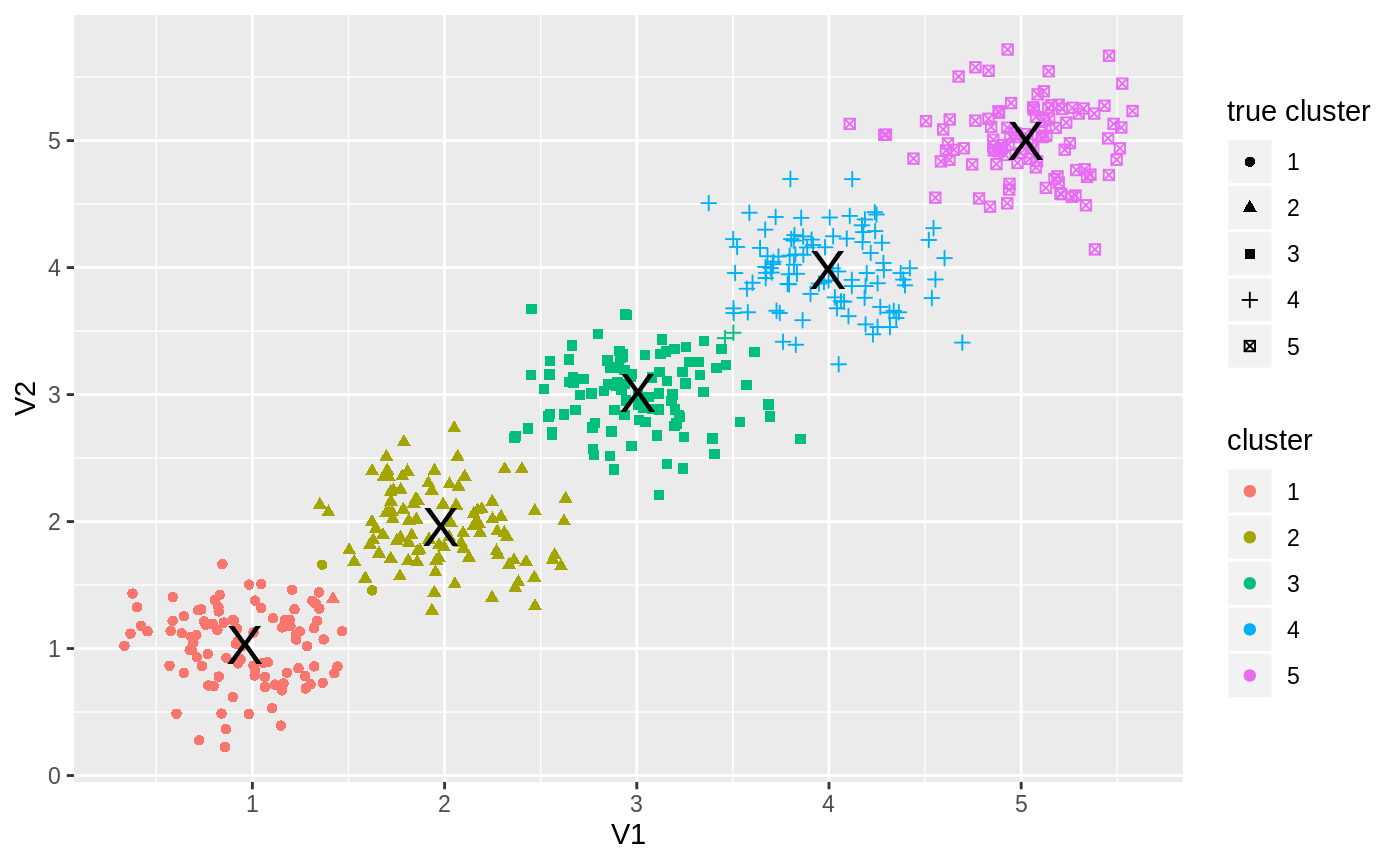
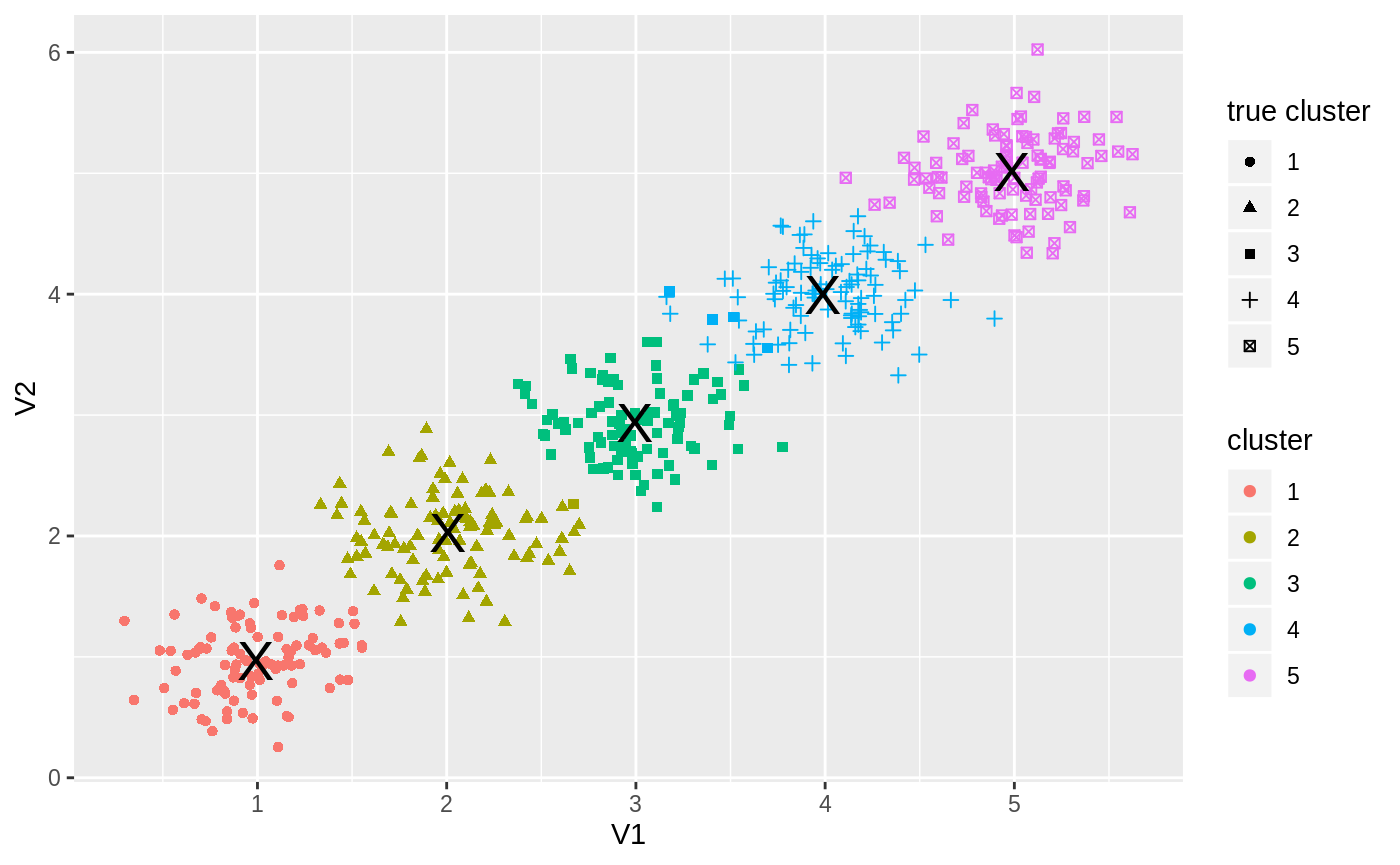
Built site for tglkmeans: 0.3.1.9000@89ff1e5

diff --git a/articles/usage.html b/articles/usage.html
@@ -108,16 +108,16 @@
 <pre><code>## # A tibble: 500 x 4
 ##       id    V1    V2 true_clust
 ##    &lt;int&gt; &lt;dbl&gt; &lt;dbl&gt;      &lt;int&gt;
-##  1     1 1.18  0.810          1
-##  2     2 1.37  1.07           1
-##  3     3 0.605 0.486          1
-##  4     4 0.710 0.931          1
-##  5     5 0.914 1.04           1
-##  6     6 0.693 1.05           1
-##  7     7 1.15  1.17           1
-##  8     8 1.11  1.24           1
-##  9     9 0.823 1.33           1
-## 10    10 0.585 1.22           1
+##  1     1 0.553 0.562          1
+##  2     2 0.876 0.638          1
+##  3     3 0.631 1.02           1
+##  4     4 1.46  1.12           1
+##  5     5 0.828 0.932          1
+##  6     6 1.15  1.06           1
+##  7     7 1.10  0.637          1
+##  8     8 0.878 0.843          1
+##  9     9 0.868 1.32           1
+## 10    10 0.839 0.488          1
 ## # … with 490 more rows</code></pre>
 <p>This is how our data looks like:</p>
 <div class="sourceCode" id="cb3"><pre class="sourceCode r"><code class="sourceCode r"><a class="sourceLine" id="cb3-1" data-line-number="1">data <span class="op">%&gt;%</span><span class="st"> </span><span class="kw">ggplot</span>(<span class="kw">aes</span>(<span class="dt">x=</span>V1, <span class="dt">y=</span>V2, <span class="dt">color=</span><span class="kw"><a href="https://rdrr.io/r/base/factor.html">factor</a></span>(true_clust))) <span class="op">+</span><span class="st"> </span></a>
@@ -134,32 +134,34 @@
 <pre><code>## KMEans: will generate seeds
 ## KMeans into generate seeds
 ## at seed 0
-## add new core from 164 to 0
+## add new core from 368 to 0
 ## at seed 1
 ## done update min distance
 ## seed range 350 450
-## picked up 478 dist was 2.14889
-## add new core from 478 to 1
+## picked up 40 dist was 2.05258
+## add new core from 40 to 1
 ## at seed 2
 ## done update min distance
 ## seed range 300 400
-## picked up 207 dist was 0.793605
-## add new core from 207 to 2
+## picked up 206 dist was 0.844671
+## add new core from 206 to 2
 ## at seed 3
 ## done update min distance
 ## seed range 250 350
-## picked up 53 dist was 0.810804
-## add new core from 53 to 3
+## picked up 194 dist was 0.681557
+## add new core from 194 to 3
 ## at seed 4
 ## done update min distance
 ## seed range 200 300
-## picked up 359 dist was 0.546213
-## add new core from 359 to 4
+## picked up 434 dist was 0.537861
+## add new core from 434 to 4
 ## KMEans: reassign after init
 ## KMEans: iter 0
-## KMEans: iter 1 changed 2
+## KMEans: iter 1 changed 5
 ## KMEans: iter 1
-## KMEans: iter 2 changed 0</code></pre>
+## KMEans: iter 2 changed 3
+## KMEans: iter 2
+## KMEans: iter 3 changed 0</code></pre>
 <p>The returned list contains 3 fields:</p>
 <div class="sourceCode" id="cb7"><pre class="sourceCode r"><code class="sourceCode r"><a class="sourceLine" id="cb7-1" data-line-number="1"><span class="kw"><a href="https://rdrr.io/r/base/names.html">names</a></span>(km)</a></code></pre></div>
 <pre><code>## [1] "centers" "cluster" "size"</code></pre>
@@ -168,38 +170,38 @@
 <pre><code>## # A tibble: 5 x 3
 ##   clust    V1    V2
 ##   &lt;int&gt; &lt;dbl&gt; &lt;dbl&gt;
-## 1     1 3.99   3.98
-## 2     2 1.98   1.96
-## 3     3 5.02   5.00
-## 4     4 3.00   3.01
-## 5     5 0.957  1.03</code></pre>
+## 1     1 4.99  5.01 
+## 2     2 3.99  4.00 
+## 3     3 2.01  2.02 
+## 4     4 0.987 0.969
+## 5     5 2.99  2.94</code></pre>
 <p>clusters are numbered according to <code>order_func</code> (see ‘Custom cluster ordering’ section).</p>
 <p><code>km$cluster</code> contains tibble with <code>id</code> column with the observation id (<code>1:n</code> if no id column was supplied), and <code>clust</code> column with the observation assigned cluster:</p>
 <div class="sourceCode" id="cb11"><pre class="sourceCode r"><code class="sourceCode r"><a class="sourceLine" id="cb11-1" data-line-number="1">km<span class="op">$</span>cluster</a></code></pre></div>
 <pre><code>## # A tibble: 500 x 2
 ##    id    clust
 ##    &lt;chr&gt; &lt;int&gt;
-##  1 1         5
-##  2 2         5
-##  3 3         5
-##  4 4         5
-##  5 5         5
-##  6 6         5
-##  7 7         5
-##  8 8         5
-##  9 9         5
-## 10 10        5
+##  1 1         4
+##  2 2         4
+##  3 3         4
+##  4 4         4
+##  5 5         4
+##  6 6         4
+##  7 7         4
+##  8 8         4
+##  9 9         4
+## 10 10        4
 ## # … with 490 more rows</code></pre>
 <p><code>km$size</code> contains tibble with <code>clust</code> column and <code>n</code> column with the number of points in each cluster:</p>
 <div class="sourceCode" id="cb13"><pre class="sourceCode r"><code class="sourceCode r"><a class="sourceLine" id="cb13-1" data-line-number="1">km<span class="op">$</span>size</a></code></pre></div>
 <pre><code>## # A tibble: 5 x 2
 ##   clust     n
 ##   &lt;int&gt; &lt;int&gt;
-## 1     1    98
-## 2     2   101
-## 3     3   100
-## 4     4   102
-## 5     5    99</code></pre>
+## 1     1   100
+## 2     2   104
+## 3     3   101
+## 4     4   100
+## 5     5    95</code></pre>
 <p>We can now check our clustering performance - fraction of observations that were classified correctly (Note that <code>match_clusters</code> function is internal to the package and is used only in this vignette):</p>
 <div class="sourceCode" id="cb15"><pre class="sourceCode r"><code class="sourceCode r"><a class="sourceLine" id="cb15-1" data-line-number="1">d &lt;-<span class="st"> </span>tglkmeans<span class="op">:::</span><span class="kw">match_clusters</span>(data, km, <span class="dv">5</span>)</a>
 <a class="sourceLine" id="cb15-2" data-line-number="2"><span class="kw"><a href="https://rdrr.io/r/base/sum.html">sum</a></span>(d<span class="op">$</span>true_clust <span class="op">==</span><span class="st"> </span>d<span class="op">$</span>new_clust, <span class="dt">na.rm=</span><span class="ot">TRUE</span>) <span class="op">/</span><span class="st"> </span><span class="kw"><a href="https://rdrr.io/r/base/sum.html">sum</a></span>(<span class="op">!</span><span class="kw"><a href="https://rdrr.io/r/base/NA.html">is.na</a></span>(d<span class="op">$</span>new_clust))</a></code></pre></div>
@@ -226,11 +228,11 @@
 <pre><code>## # A tibble: 5 x 3
 ##   clust    V1    V2
 ##   &lt;int&gt; &lt;dbl&gt; &lt;dbl&gt;
-## 1     1 0.957  1.03
-## 2     2 1.98   1.96
-## 3     3 3.00   3.01
-## 4     4 3.99   3.98
-## 5     5 5.02   5.00</code></pre>
+## 1     1 0.987 0.969
+## 2     2 2.01  2.02 
+## 3     3 3.00  2.95 
+## 4     4 4.00  4.01 
+## 5     5 4.99  5.02</code></pre>
 </div>
 <div id="missing-data" class="section level2">
 <h2 class="hasAnchor">
@@ -239,18 +241,18 @@
 <div class="sourceCode" id="cb20"><pre class="sourceCode r"><code class="sourceCode r"><a class="sourceLine" id="cb20-1" data-line-number="1">data<span class="op">$</span>V1[<span class="kw"><a href="https://rdrr.io/r/base/sample.html">sample</a></span>(<span class="dv">1</span><span class="op">:</span><span class="kw"><a href="https://rdrr.io/r/base/nrow.html">nrow</a></span>(data), <span class="kw"><a href="https://rdrr.io/r/base/Round.html">round</a></span>(<span class="kw"><a href="https://rdrr.io/r/base/nrow.html">nrow</a></span>(data)<span class="op">*</span><span class="fl">0.2</span>))] &lt;-<span class="st"> </span><span class="ot">NA</span></a>
 <a class="sourceLine" id="cb20-2" data-line-number="2">data</a></code></pre></div>
 <pre><code>## # A tibble: 500 x 4
-##       id     V1    V2 true_clust
-##    &lt;int&gt;  &lt;dbl&gt; &lt;dbl&gt;      &lt;int&gt;
-##  1     1  1.18  0.810          1
-##  2     2 NA     1.07           1
-##  3     3  0.605 0.486          1
-##  4     4  0.710 0.931          1
-##  5     5 NA     1.04           1
-##  6     6  0.693 1.05           1
-##  7     7  1.15  1.17           1
-##  8     8  1.11  1.24           1
-##  9     9  0.823 1.33           1
-## 10    10 NA     1.22           1
+##       id    V1    V2 true_clust
+##    &lt;int&gt; &lt;dbl&gt; &lt;dbl&gt;      &lt;int&gt;
+##  1     1 0.553 0.562          1
+##  2     2 0.876 0.638          1
+##  3     3 0.631 1.02           1
+##  4     4 1.46  1.12           1
+##  5     5 0.828 0.932          1
+##  6     6 1.15  1.06           1
+##  7     7 1.10  0.637          1
+##  8     8 0.878 0.843          1
+##  9     9 0.868 1.32           1
+## 10    10 0.839 0.488          1
 ## # … with 490 more rows</code></pre>
 <div class="sourceCode" id="cb22"><pre class="sourceCode r"><code class="sourceCode r"><a class="sourceLine" id="cb22-1" data-line-number="1">km &lt;-<span class="st"> </span><span class="kw"><a href="../reference/TGL_kmeans_tidy.html">TGL_kmeans_tidy</a></span>(data <span class="op">%&gt;%</span><span class="st"> </span><span class="kw">select</span>(id, <span class="kw">starts_with</span>(<span class="st">'V'</span>)), </a>
 <a class="sourceLine" id="cb22-2" data-line-number="2">              <span class="dt">k=</span><span class="dv">5</span>, </a>
@@ -258,7 +260,7 @@
 <a class="sourceLine" id="cb22-4" data-line-number="4">              <span class="dt">verbose=</span><span class="ot">FALSE</span>)</a>
 <a class="sourceLine" id="cb22-5" data-line-number="5">d &lt;-<span class="st"> </span>tglkmeans<span class="op">:::</span><span class="kw">match_clusters</span>(data, km, <span class="dv">5</span>)</a>
 <a class="sourceLine" id="cb22-6" data-line-number="6"><span class="kw"><a href="https://rdrr.io/r/base/sum.html">sum</a></span>(d<span class="op">$</span>true_clust <span class="op">==</span><span class="st"> </span>d<span class="op">$</span>new_clust, <span class="dt">na.rm=</span><span class="ot">TRUE</span>) <span class="op">/</span><span class="st"> </span><span class="kw"><a href="https://rdrr.io/r/base/sum.html">sum</a></span>(<span class="op">!</span><span class="kw"><a href="https://rdrr.io/r/base/NA.html">is.na</a></span>(d<span class="op">$</span>new_clust))</a></code></pre></div>
-<pre><code>## [1] 0.982</code></pre>
+<pre><code>## [1] 0.974</code></pre>
 <p>and plotting the results (without the NA’s) we get:</p>
 <div class="sourceCode" id="cb24"><pre class="sourceCode r"><code class="sourceCode r"><a class="sourceLine" id="cb24-1" data-line-number="1">d <span class="op">%&gt;%</span><span class="st"> </span><span class="kw">ggplot</span>(<span class="kw">aes</span>(<span class="dt">x=</span>V1, <span class="dt">y=</span>V2, <span class="dt">color=</span><span class="kw"><a href="https://rdrr.io/r/base/factor.html">factor</a></span>(new_clust), <span class="dt">shape=</span><span class="kw"><a href="https://rdrr.io/r/base/factor.html">factor</a></span>(true_clust))) <span class="op">+</span><span class="st"> </span></a>
 <a class="sourceLine" id="cb24-2" data-line-number="2"><span class="st">    </span><span class="kw">geom_point</span>() <span class="op">+</span><span class="st"> </span></a>
@@ -290,7 +292,7 @@
 <a class="sourceLine" id="cb29-3" data-line-number="3"></a>
 <a class="sourceLine" id="cb29-4" data-line-number="4">d &lt;-<span class="st"> </span>tglkmeans<span class="op">:::</span><span class="kw">match_clusters</span>(data, km_standard, <span class="dv">30</span>)</a>
 <a class="sourceLine" id="cb29-5" data-line-number="5"><span class="kw"><a href="https://rdrr.io/r/base/sum.html">sum</a></span>(d<span class="op">$</span>true_clust <span class="op">==</span><span class="st"> </span>d<span class="op">$</span>new_clust, <span class="dt">na.rm=</span><span class="ot">TRUE</span>) <span class="op">/</span><span class="st"> </span><span class="kw"><a href="https://rdrr.io/r/base/sum.html">sum</a></span>(<span class="op">!</span><span class="kw"><a href="https://rdrr.io/r/base/NA.html">is.na</a></span>(d<span class="op">$</span>new_clust))</a></code></pre></div>
-<pre><code>## [1] 0.75</code></pre>
+<pre><code>## [1] 0.6521739</code></pre>
 <p>We can see that kmeans++ clusters siginifcantly better than R vannila kmeans.</p>
 </div>
 <div id="random-seed" class="section level2">

diff --git a/reference/TGL_kmeans_tidy.html b/reference/TGL_kmeans_tidy.html
@@ -234,68 +234,70 @@ if NULL, no reordering would be done.</p></td>
 <span class='no'>km</span> <span class='kw'>&lt;-</span> <span class='fu'>TGL_kmeans_tidy</span>(<span class='no'>d</span>, <span class='kw'>k</span> <span class='kw'>=</span> <span class='fl'>5</span>, <span class='st'>"euclid"</span>, <span class='kw'>verbose</span> <span class='kw'>=</span> <span class='fl'>TRUE</span>)</div><div class='output co'>#&gt; <span class='message'>id column: id</span></div><div class='output co'>#&gt; KMEans: will generate seeds
 #&gt; KMeans into generate seeds
 #&gt; at seed 0
-#&gt; add new core from 19 to 0
+#&gt; add new core from 229 to 0
 #&gt; at seed 1
 #&gt; done update min distance
 #&gt; seed range 350 450
-#&gt; picked up 445 dist was 2.88074
-#&gt; add new core from 445 to 1
+#&gt; picked up 453 dist was 1.50538
+#&gt; add new core from 453 to 1
 #&gt; at seed 2
 #&gt; done update min distance
 #&gt; seed range 300 400
-#&gt; picked up 268 dist was 1.42452
-#&gt; add new core from 268 to 2
+#&gt; picked up 42 dist was 1.36515
+#&gt; add new core from 42 to 2
 #&gt; at seed 3
 #&gt; done update min distance
 #&gt; seed range 250 350
-#&gt; picked up 119 dist was 0.656824
-#&gt; add new core from 119 to 3
+#&gt; picked up 331 dist was 0.687862
+#&gt; add new core from 331 to 3
 #&gt; at seed 4
 #&gt; done update min distance
 #&gt; seed range 200 300
-#&gt; picked up 311 dist was 0.696882
-#&gt; add new core from 311 to 4
+#&gt; picked up 168 dist was 0.72591
+#&gt; add new core from 168 to 4
 #&gt; KMEans: reassign after init
 #&gt; KMEans: iter 0
-#&gt; KMEans: iter 1 changed 1
+#&gt; KMEans: iter 1 changed 4
 #&gt; KMEans: iter 1
-#&gt; KMEans: iter 2 changed 1
+#&gt; KMEans: iter 2 changed 2
 #&gt; KMEans: iter 2
-#&gt; KMEans: iter 3 changed 0</div><div class='input'><span class='no'>km</span></div><div class='output co'>#&gt; $centers
+#&gt; KMEans: iter 3 changed 1
+#&gt; KMEans: iter 3
+#&gt; KMEans: iter 4 changed 0</div><div class='input'><span class='no'>km</span></div><div class='output co'>#&gt; $centers
 #&gt; # A tibble: 5 x 3
 #&gt;   clust    V1    V2
 #&gt;   &lt;int&gt; &lt;dbl&gt; &lt;dbl&gt;
-#&gt; 1     1 3.03  3.01 
-#&gt; 2     2 0.945 0.926
-#&gt; 3     3 4.99  4.98 
-#&gt; 4     4 1.96  2.02 
-#&gt; 5     5 4.03  4.04 
+#&gt; 1     1 0.945 0.926
+#&gt; 2     2 3.03  3.01 
+#&gt; 3     3 5.00  4.99 
+#&gt; 4     4 4.04  4.04 
+#&gt; 5     5 1.96  2.02 
 #&gt; 
 #&gt; $cluster
 #&gt; # A tibble: 500 x 2
 #&gt;    id    clust
 #&gt;    &lt;chr&gt; &lt;int&gt;
-#&gt;  1 1         2
-#&gt;  2 2         2
-#&gt;  3 3         2
-#&gt;  4 4         2
-#&gt;  5 5         2
-#&gt;  6 6         2
-#&gt;  7 7         2
-#&gt;  8 8         2
-#&gt;  9 9         2
-#&gt; 10 10        2
+#&gt;  1 1         1
+#&gt;  2 2         1
+#&gt;  3 3         1
+#&gt;  4 4         1
+#&gt;  5 5         1
+#&gt;  6 6         1
+#&gt;  7 7         1
+#&gt;  8 8         1
+#&gt;  9 9         1
+#&gt; 10 10        1
 #&gt; # … with 490 more rows
 #&gt; 
 #&gt; $size
 #&gt; # A tibble: 5 x 2
 #&gt;   clust     n
 #&gt;   &lt;int&gt; &lt;int&gt;
-#&gt; 1     1   101
-#&gt; 2     2    98
-#&gt; 3     3   100
-#&gt; 4     4   102
-#&gt; 5     5    99
+#&gt; 1     1    98
+#&gt; 2     2   101
+#&gt; 3     3    99
+#&gt; 4     4   100
+#&gt; 5     5   102
 #&gt; </div></pre>
   </div>
   <div class="col-md-3 hidden-xs hidden-sm" id="sidebar">

diff --git a/reference/TGL_kmeans.html b/reference/TGL_kmeans.html
@@ -234,41 +234,41 @@ if NULL, no reordering would be done.</p></td>
 <span class='no'>km</span> <span class='kw'>&lt;-</span> <span class='fu'>TGL_kmeans</span>(<span class='no'>d</span>, <span class='kw'>k</span> <span class='kw'>=</span> <span class='fl'>5</span>, <span class='st'>"euclid"</span>, <span class='kw'>verbose</span> <span class='kw'>=</span> <span class='fl'>TRUE</span>)</div><div class='output co'>#&gt; <span class='message'>id column: id</span></div><div class='output co'>#&gt; KMEans: will generate seeds
 #&gt; KMeans into generate seeds
 #&gt; at seed 0
-#&gt; add new core from 419 to 0
+#&gt; add new core from 65 to 0
 #&gt; at seed 1
 #&gt; done update min distance
 #&gt; seed range 350 450
-#&gt; picked up 50 dist was 2.62422
-#&gt; add new core from 50 to 1
+#&gt; picked up 442 dist was 2.65874
+#&gt; add new core from 442 to 1
 #&gt; at seed 2
 #&gt; done update min distance
 #&gt; seed range 300 400
-#&gt; picked up 241 dist was 1.28776
-#&gt; add new core from 241 to 2
+#&gt; picked up 247 dist was 1.31574
+#&gt; add new core from 247 to 2
 #&gt; at seed 3
 #&gt; done update min distance
 #&gt; seed range 250 350
-#&gt; picked up 178 dist was 0.673766
-#&gt; add new core from 178 to 3
+#&gt; picked up 353 dist was 0.656026
+#&gt; add new core from 353 to 3
 #&gt; at seed 4
 #&gt; done update min distance
 #&gt; seed range 200 300
-#&gt; picked up 346 dist was 0.626821
-#&gt; add new core from 346 to 4
+#&gt; picked up 108 dist was 0.750416
+#&gt; add new core from 108 to 4
 #&gt; KMEans: reassign after init
 #&gt; KMEans: iter 0
-#&gt; KMEans: iter 1 changed 2
+#&gt; KMEans: iter 1 changed 8
 #&gt; KMEans: iter 1
-#&gt; KMEans: iter 2 changed 1
+#&gt; KMEans: iter 2 changed 2
 #&gt; KMEans: iter 2
 #&gt; KMEans: iter 3 changed 0</div><div class='input'><span class='fu'><a href='https://rdrr.io/r/base/names.html'>names</a></span>(<span class='no'>km</span>)</div><div class='output co'>#&gt; [1] "cluster" "centers" "size"   </div><div class='input'><span class='no'>km</span>$<span class='no'>centers</span></div><div class='output co'>#&gt;            V1       V2
-#&gt; [1,] 3.972232 4.046328
-#&gt; [2,] 2.004643 2.058945
-#&gt; [3,] 2.977600 3.015143
-#&gt; [4,] 4.975310 5.048907
-#&gt; [5,] 1.019032 1.034553</div><div class='input'><span class='fu'><a href='https://rdrr.io/r/utils/head.html'>head</a></span>(<span class='no'>km</span>$<span class='no'>cluster</span>)</div><div class='output co'>#&gt; 1 2 3 4 5 6 
-#&gt; 5 5 5 5 5 5 </div><div class='input'><span class='no'>km</span>$<span class='no'>size</span></div><div class='output co'>#&gt;   1   2   3   4   5 
-#&gt;  97 102 102  99 100 </div><div class='input'>
+#&gt; [1,] 2.000776 2.053331
+#&gt; [2,] 3.969391 4.038842
+#&gt; [3,] 2.964869 3.008410
+#&gt; [4,] 1.019032 1.034553
+#&gt; [5,] 4.975310 5.048907</div><div class='input'><span class='fu'><a href='https://rdrr.io/r/utils/head.html'>head</a></span>(<span class='no'>km</span>$<span class='no'>cluster</span>)</div><div class='output co'>#&gt; 1 2 3 4 5 6 
+#&gt; 4 4 4 4 4 4 </div><div class='input'><span class='no'>km</span>$<span class='no'>size</span></div><div class='output co'>#&gt;   1   2   3   4   5 
+#&gt; 101  98 102 100  99 </div><div class='input'>
 </div></pre>
   </div>
   <div class="col-md-3 hidden-xs hidden-sm" id="sidebar">
